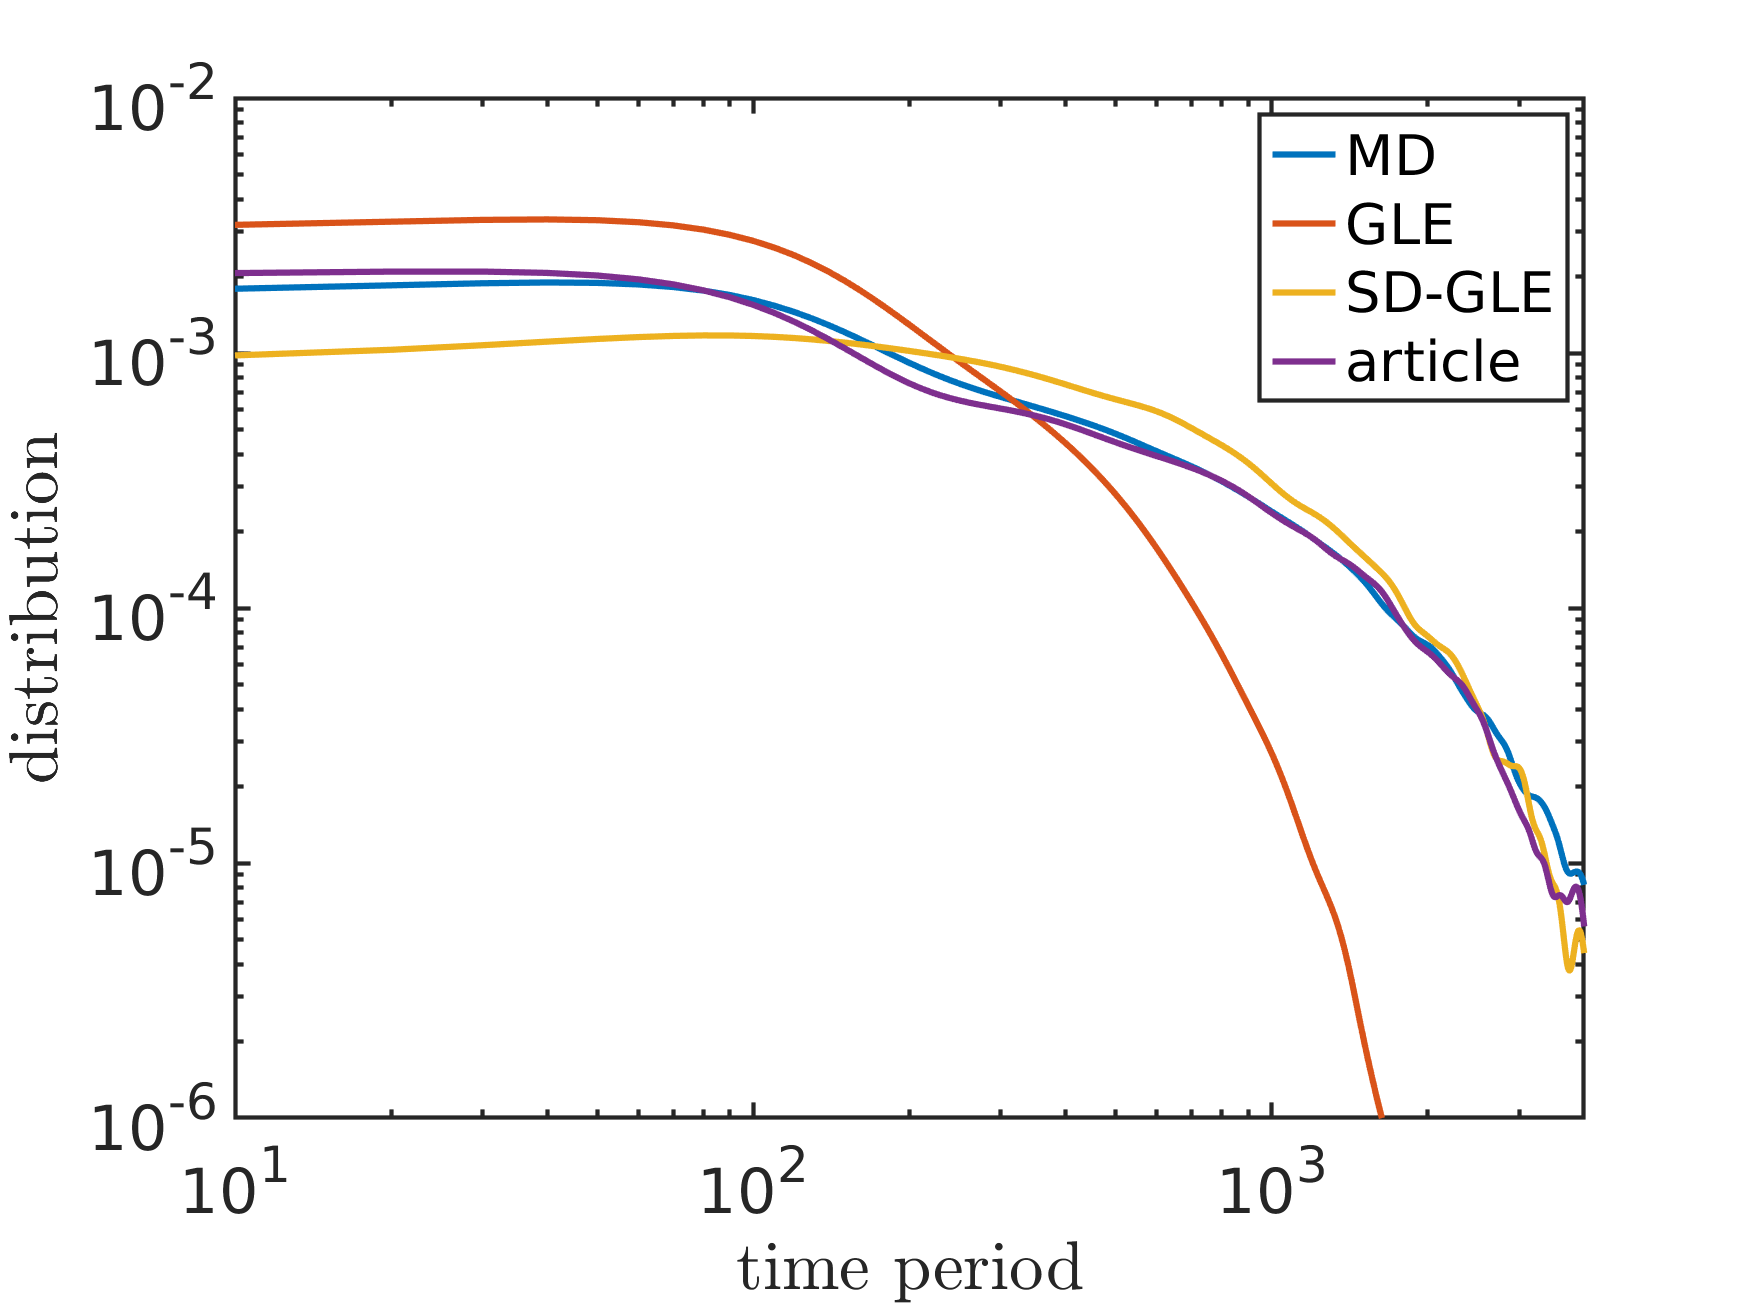
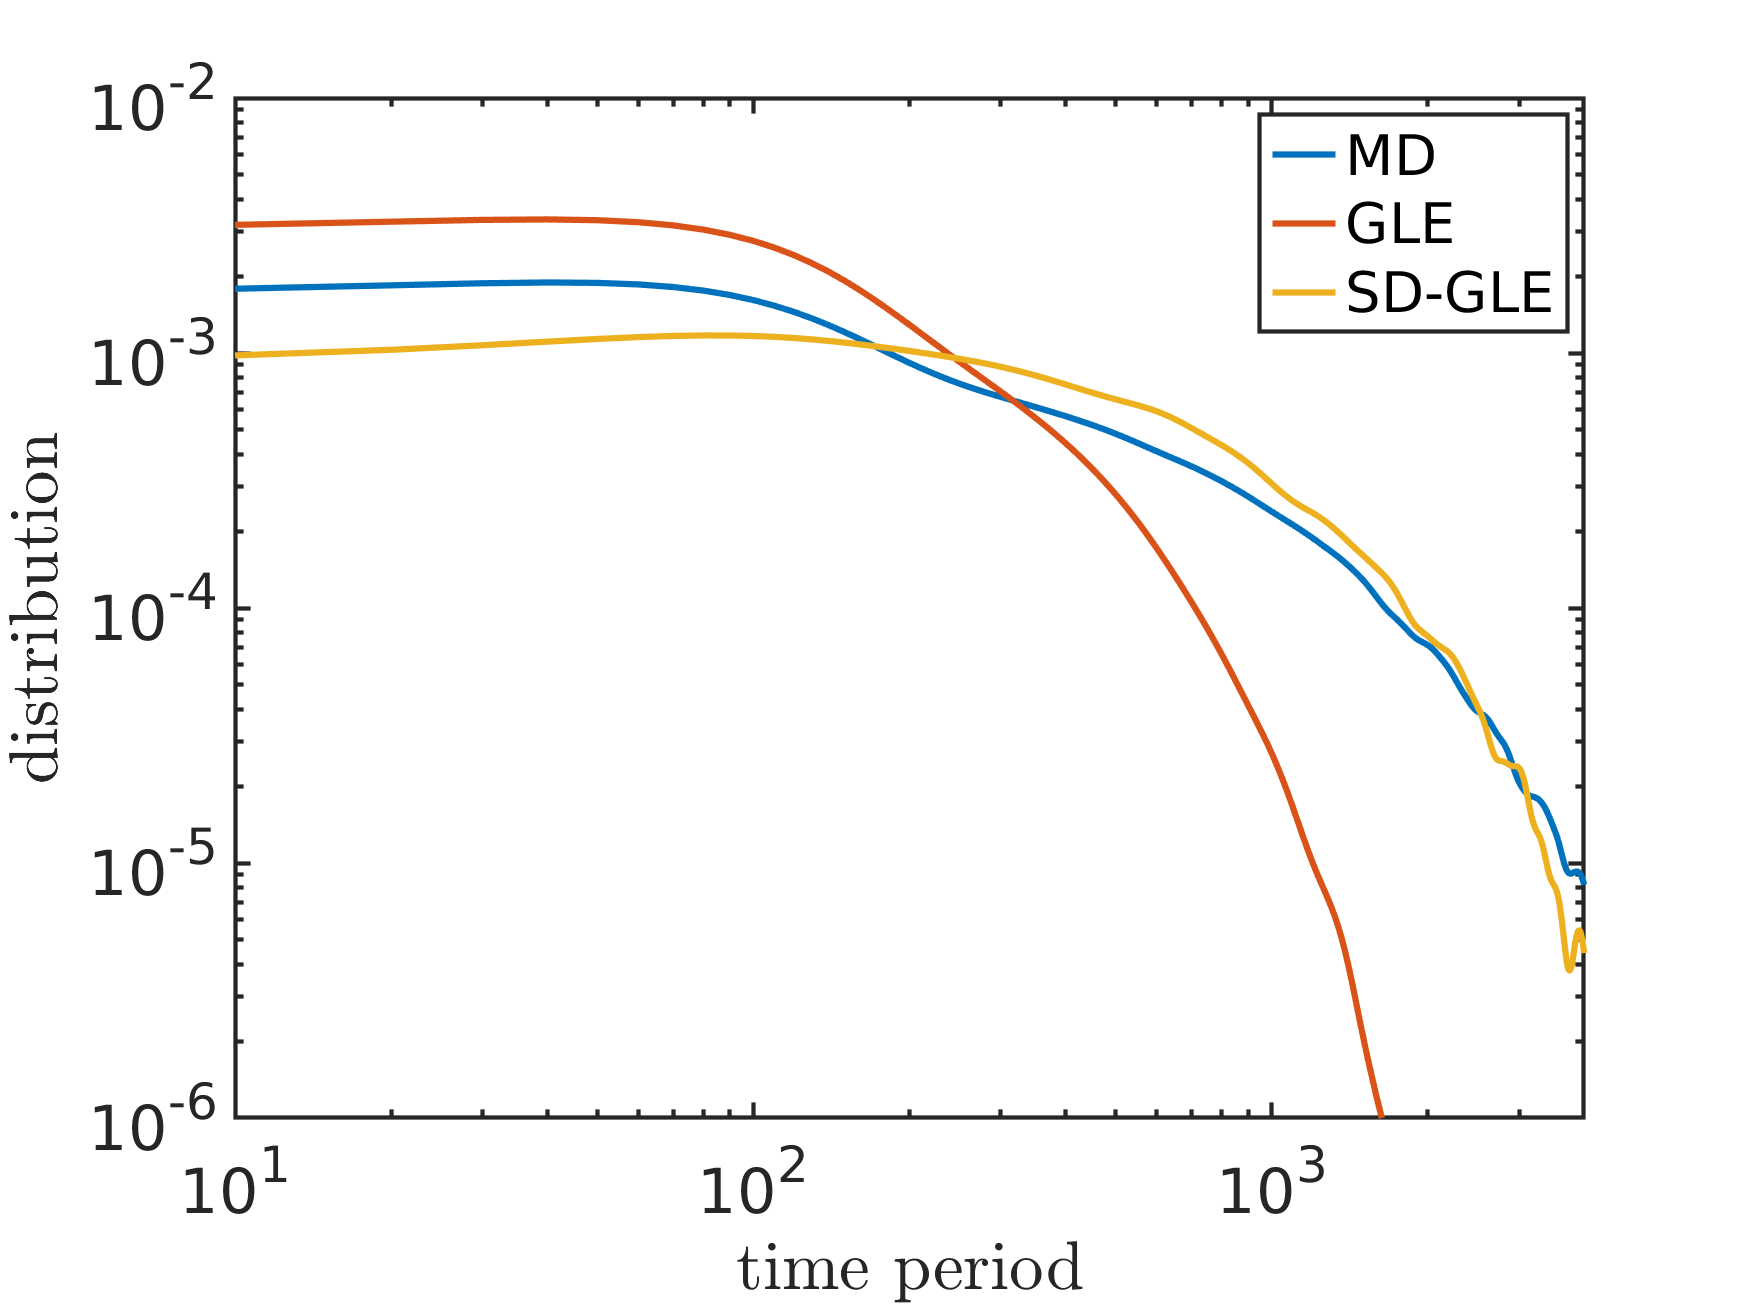
update

diff --git a/case_bimodal/main.m b/case_bimodal/main.m
@@ -89,7 +89,6 @@ for bin=[12,19,22,27]
     plot(corr1.xcorr_t,corr1.(corr_ver)(bin,:),'Displayname','MD')
     plot(corr2.xcorr_t,corr2.(corr_ver)(bin,:),'Displayname','GLE')
     plot(corr3.xcorr_t,corr3.(corr_ver)(bin,:),'Displayname','SD-GLE')
-    plot(corr4.xcorr_t,corr4.(corr_ver)(bin,:),'Displayname','article')
     set(gca,'FontSize',16,'LineWidth',2.0)
     legend
 end
@@ -109,7 +108,6 @@ t_sample = 10:10:8000;bd=80;
 plot(t_sample,ksdensity(corr1.t_A_B,t_sample,"Bandwidth",bd),'Displayname','MD')
 plot(t_sample,ksdensity(corr2.t_A_B,t_sample,"Bandwidth",bd),'Displayname','GLE')
 plot(t_sample,ksdensity(corr3.t_A_B,t_sample,"Bandwidth",bd),'Displayname','SD-GLE')
-plot(t_sample,ksdensity(corr4.t_A_B,t_sample,"Bandwidth",bd),'Displayname','article')
 set(gca, 'YScale', 'log', 'XScale', 'log')
 ylim([10^-6,10^-2])
 xlim([10,4000])

diff --git a/README.md b/README.md
@@ -14,13 +14,9 @@ Consider a polymer molecule consisting of $N = 16$ atoms. The resolved variable 
 
 The example is given in folder 'case_unimodal', and 'main.m' provides how to drive these codes.
 
-1. Run full molecular dynamics simulation which is given in 'MD_data/in.box' for LAMMPS setup and 'MD_data/data.box' for inital data.
+1. Compute the probability distribution function by 'step1_PDF.m', which provides free energy and the conservative force ('data/PDF.mat').
 
-2. Collect reduced variable by 'step0_collect_data.m' which will generate 'xv_*.mat' in 'MD_data'. Each '.mat' file contains the position and velocity of one trajctory.
-
-3. Compute the probability distribution function by 'step1_PDF.m', which will also get the conservative force ('data/PDF.mat').
-
-4. Compute the 1D $h(q)$ by 'step2_hx.m'. This is done by only consider the state-dependency when $t=0$ ('data/PDF.mat').
+2. Compute the one feature (1D) $h(q)$ by 'step2_hx.m'. This is done by only consider the state-dependency when $t=0$ ('data/PDF.mat').
 
 ```math
 m\dot{v}_t=F(q_t)-h(q_t) \int_0^t \theta(t-\tau)h(q_\tau) v_\tau d\tau+h(q_t) R_t 
@@ -29,31 +25,31 @@ m\dot{v}_t=F(q_t)-h(q_t) \int_0^t \theta(t-\tau)h(q_\tau) v_\tau d\tau+h(q_t) R_
 h(q)= \frac{\langle \dot{v}_0-f(q_0),\dot{v}_0 |q_0=q \rangle}{\langle v_0,v_0 \rangle}.
 ```
 
-5. Compute the two points correlation functions by 'step3_corr.m' and 'step4_hx_corr.m' to construct 1D kernel ('data/corr.mat' and 'data/hx_corr.mat').
+3. Compute the two-point correlation functions by 'step3_corr.m' and 'step4_hx_corr.m' to construct 1D kernel ('data/corr.mat' and 'data/hx_corr.mat').
 
 ```math
 \langle \frac{m\dot{v}_t-F(q_t)}{h(q_t)},v_0 \rangle= \int_0^t \theta(t-\tau) \langle h(q_\tau) v_\tau, v_0 \rangle d\tau 
 ```
 
-6. Compute three point correlation functions for ND state-dependent kernel by 'step3_training_set.m' and 'step4_collect_training_set.m' ('data/dx_10_w_501.mat').
+4. Compute three-point correlation functions for N features (ND) state-dependent kernel by 'step3_training_set.m' and 'step4_collect_training_set.m' ('data/dx_10_w_501.mat').
 
-7. Train the model with 'train.py' and 'get_model.py' ('MD_ND_2.mat')
+5. Train the model with 'train.py' and 'get_model.py' ('MD_ND_2.mat')
 
-8. Simulate the standard GLE model and state-dependent GLE model by 'step5_std_GLE.m', 'step5_hx_GLE_1D.m' and 'step5_hx_GLE_2D.m' (mat files in 'GLE_data').
+6. Simulate the standard GLE model and state-dependent GLE model by 'step5_std_GLE.m', 'step5_hx_GLE_1D.m' and 'step5_hx_GLE_2D.m' (mat files in 'GLE_data').
 
-9. Compute correlation functions of all the reduced models by 'step6_GLE_corr.m' ('corr_GLE.mat', 'corr_hx_GLE_1D.mat', 'corr_hx_GLE_2D.mat').
+7. Compute correlation functions of all the reduced models by 'step6_GLE_corr.m' ('corr_GLE.mat', 'corr_hx_GLE_1D.mat', 'corr_hx_GLE_2D.mat').
 
-10. The visualization is at the end of the 'main.m'. 
+8. The visualization is at the end of the 'main.m'. 
 
 ### Result
-The over probability distribution and free energy. This is a simple case without energy barrier.
+The two figures show the probability distribution and free energy without energy barrier.
 
 <p align="center">
 <img src="case_unimodal/fig/PDF.png" alt="drawing" width="49%" />
 <img src="case_unimodal/fig/FreeEnergy.png" alt="drawing" width="49%" />
 </p>
 
-The following two figures shows velocity correlation $\langle v(t),v(0) \rangle$ and state-dependent velocity correlation $\langle v(t),v(0) |q(0)=q^* \rangle$. 'MD' represent the full model, 'GLE' represent the standard GLE, 'SD-GLE-1D' represent our model with the 1D $h(q)$ formulation below, 'SD-GLE-1D' represent our model with the 2D $h(q)$ formulation in article.
+The following two figures shows velocity correlation $\langle v(t),v(0) \rangle$ and state-dependent velocity correlation $\langle v(t),v(0) |q(0)=q^* \rangle$. 'MD' represent the full model, 'GLE' represent the standard GLE, 'SD-GLE-1D' represent our model with the 1D $h(q)$ formulation as mentioned before, 'SD-GLE-2D' represent our model with the 2D $h(q)$ formulation in paper.
 
 <p align="center">
   <img src="case_unimodal/fig/corr_vv.png" alt="drawing" width="49%" />
@@ -74,17 +70,17 @@ Consider the molecule benzyl bromide in an aqueous environment. The full system 
 
 ### Codes
 
-The example is given in folder 'case_bimodal', and 'main.m' provides how to drive these codes. The argument is liter than it used in article. The basis for $h(q)$ is 66 in article but 8 here, the number of three-point correlation functions is 65 in article but 26 here. This makes it more efficiency but less accuracy. The model in the article is given as 'MD_ND_4_std_lite.mat'.
+The example is given in folder 'case_bimodal', and 'main.m' provides how to drive these codes. The parameter here is smaller than it used in paper. The number of basis for $h(q)$ is 66 in paper but 8 here, the number of three-point correlation functions is 65 in paper but 26 here.
 
-1. Compute the probability distribution function by 'step1_PDF.m', which will also get the conservative force ('data/PDF.mat').
+1. Compute the probability distribution function by 'step1_PDF.m', which provides free energy and the conservative force ('data/PDF.mat').
 
-2. Compute the two points correlation functions by 'step2_std_corr.m' to construct 1D kernel ('data/corr.mat').
+2. Compute the two-point correlation functions by 'step2_std_corr.m' to construct 1D kernel ('data/corr.mat').
 
-3. Compute three point correlation functions for ND state-dependent kernel by 'step3_training_set.m' and 'step4_collect_training_set.m' ('data/dx_0.2_w_301.mat').
+3. Compute three-point correlation functions for ND state-dependent kernel by 'step3_training_set.m' and 'step4_collect_training_set.m' ('data/dx_0.2_w_301.mat').
 
-4. Train the model with 'train.py' and 'get_model.py' ('MD_ND_4.mat', 'MD_ND_4_std.mat' for model in article. 'MD_ND_4_lite.mat' and 'MD_ND_4_std_lite.mat' is the corresponding lite version due to the size limitation)
+4. Train the model with 'train.py' and 'get_model.py' ('MD_ND_4.mat', 'MD_ND_4_std.mat' for model in paper. 'MD_ND_4_lite.mat' and 'MD_ND_4_std_lite.mat' is the corresponding lite version due to the size limitation)
 
-5. Simulate the standard GLE model and state-dependent GLE model by 'step5_std_GLE.m', 'step5_hx_GLE.m'. 'step5_hx_GLE_fast_conv.m' do the same thing as 'step5_hx_GLE.m' but evalute convolution by fast convolution algorithm. 
+5. Simulate the standard GLE model and state-dependent GLE model by 'step5_std_GLE.m', 'step5_hx_GLE.m'. 'step5_hx_GLE_fast_conv.m' do the same thing as 'step5_hx_GLE.m' but evaluate convolution by fast convolution algorithm. 
 
 6. Compute correlation functions of all the reduced models by 'step6_GLE_corr.m' ('corr_GLE.mat', 'corr_ML_4D.mat'). 
 
@@ -92,26 +88,18 @@ The example is given in folder 'case_bimodal', and 'main.m' provides how to driv
 
 ### Results
 
-The left figure shows the distruction $P(q)$ and the right shows the free energy $U(q)$ with two local minima.
+The two figures show the probability distribution and free energy with two local minima.
 <p align="center">
 <img src="case_bimodal/fig/PDF.png" alt="drawing" width="49%" />
 <img src="case_bimodal/fig/FreeEnergy.png" alt="drawing" width="49%" />
 </p>
 
-The following two figures shows velocity correlation $\langle v(t),v(0) \rangle$ and state-dependent velocity correlation $\langle v(t),v(0) |q(0)=q^* \rangle$. 'MD' represent the full model, 'GLE' represent the standard GLE, 'SD-GLE' represent our model with the given training set, 'article' represent the model used in article.
+The following two figures shows velocity correlation $\langle v(t),v(0) \rangle$ and state-dependent velocity correlation $\langle v(t),v(0) |q(0)=q^* \rangle$. 'MD' represent the full model, 'GLE' represent the standard GLE, 'SD-GLE' represent our model.
 
 <p align="center">
 <img src="case_bimodal/fig/corr_vv.png" alt="drawing" width="49%" />
 <img src="case_bimodal/fig/xcorr_vv.png" alt="drawing" width="49%" />
 </p>
-
-
-The following figure shows the distribution of the transition time between the two local minima.
-
-<p align="center">
-<img src="case_bimodal/fig/trates.png" alt="drawing" width="49%" />
-</p>
-
 
 ## Full Data
 Due to the storage limitation of GitHub, we only upload part of the data. The full data including MD trajctories (example 1), positon and velocity of the resolved variables, simulation data (example1) can be accessed from Globus with the link (https://app.globus.org/file-manager?origin_id=ec51ed95-bc26-44a4-a8a0-65b74d694c33&origin_path=%2F).
@@ -122,7 +110,5 @@ Due to the storage limitation of GitHub, we only upload part of the data. The fu
 Python enviroments is given in file 'conda-environment.txt'. 
 
 Matlab version is 2022a. 
-
-LAMMPS version is (4 Jul 2012).
 
 The training is performed on v100s.
